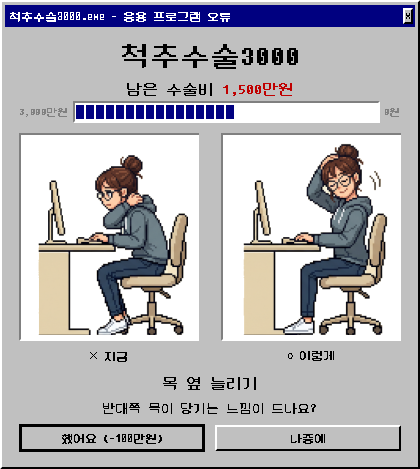
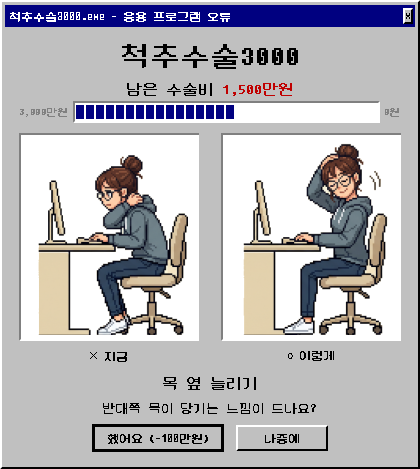
Center card buttons with fixed width; layout constants at top of popup.py

Changed region(s): [[0.031, 0.8955, 0.5881, 0.9851], [0.619, 0.8955, 0.9595, 0.9851]]

diff --git a/src/posture_alert/ui/popup.py b/src/posture_alert/ui/popup.py
@@ -20,7 +20,13 @@ from ..engine.content import APP_NAME, APP_TAGLINE, Exercise, Message
 from .retro import (BAD_POSE, DARK, ERROR_ICON, ERROR_PAL, GOOD_POSE, NAVY,
                     POSE_PAL, WARNING, WARNING_PAL, retro_font, sprite)
 
+# ---- 화면 조절용 설정값 (여기 숫자만 바꾸면 됨) ----
+CARD_W = 420             # 알림 창 폭
+TITLE_PX = 30            # 맨 위 "척추수술3000" 글자 크기
 IMG_W, IMG_H = 176, 200  # 그림 칸 크기 (기본 그림 400:372, 스트레칭 그림 세로형도 들어가게)
+BUTTON_W = 140           # 버튼 폭 (가운데 정렬, 모두 같은 폭)
+BUTTON_W_3 = 118         # 버튼이 3개일 때(일어나기: 했어요/못 일어나요/나중에) 폭
+BUTTON_GAP = 12          # 버튼 사이 간격
 EXE = f"{APP_NAME}.exe"
 ERROR_CODES = {
     "posture": "TURTLE_NECK_OVERFLOW",
@@ -198,7 +204,7 @@ def image_panel(pm: QPixmap, caption: str) -> QWidget:
     return box
 
 
-def _big_title(px: int = 30) -> QLabel:
+def _big_title(px: int = TITLE_PX) -> QLabel:
     lb = _label(APP_NAME, px, bold=True)
     lb.setAlignment(Qt.AlignmentFlag.AlignCenter)
     return lb
@@ -240,7 +246,7 @@ class GuideCard(_RetroWindow):
         self.ex = ex
         self.price = price_of(kind)
         self.remaining = remaining
-        self.setFixedWidth(420)
+        self.setFixedWidth(CARD_W)
         self.title_bar.closed.connect(lambda: self._answer("skip"))
 
         self.body.addWidget(_big_title())
@@ -263,6 +269,7 @@ class GuideCard(_RetroWindow):
         self.body.addWidget(self.question)
 
         btns = QHBoxLayout()
+        btns.setSpacing(BUTTON_GAP)
         ok = _button(f"했어요 (-{won(self.price)})", primary=True)
         ok.clicked.connect(self._complete)
         self.buttons = [ok]
@@ -273,8 +280,13 @@ class GuideCard(_RetroWindow):
         later = _button("나중에")
         later.clicked.connect(lambda: self._answer("snooze"))
         self.buttons.append(later)
+        # 가운데 정렬: 양옆에 빈 공간(stretch)을 넣고 버튼 폭은 고정
+        btns.addStretch()
+        width = BUTTON_W if len(self.buttons) <= 2 else BUTTON_W_3
         for b in self.buttons:
+            b.setFixedWidth(width)
             btns.addWidget(b)
+        btns.addStretch()
         self.body.addLayout(btns)
 
     def _complete(self):
